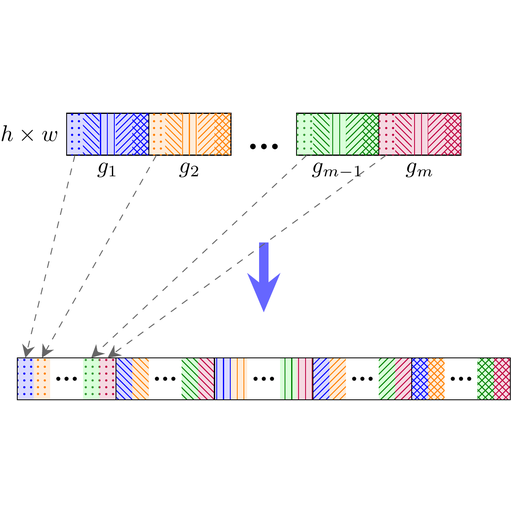
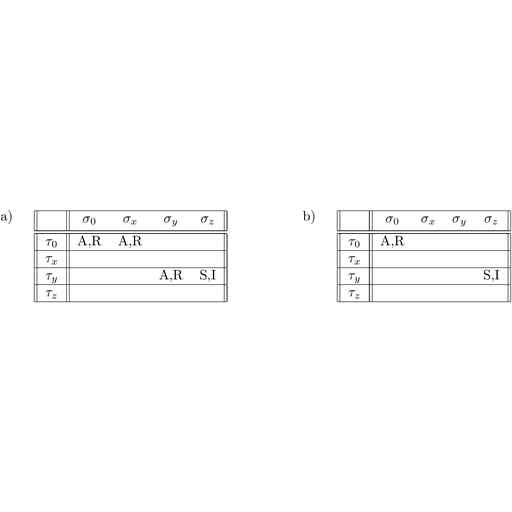
changes

diff --git a/data/5_export/helpers.py b/data/5_export/helpers.py
@@ -645,7 +645,7 @@ def choose_weighted_with_noise_fallback(
     return selected
 
 
-def choose_benchmark_with_noise_fallback(
+def choose_class_split_with_noise_fallback(
     samples: Iterable[Sample],
     class_names: Sequence[str],
     count_per_class: int,
@@ -654,14 +654,15 @@ def choose_benchmark_with_noise_fallback(
     rng: random.Random,
     valid_repetition_classes: Sequence[str],
     noise_class: str,
+    label: str,
 ) -> set[tuple[int, int]]:
     """
-    Select a fixed target for each benchmark class plus an explicit noise class.
+    Select a fixed target for each real class plus an explicit noise quota.
 
     Real samples are preferred and description-bearing real samples come first.
-    Missing slots of real benchmark classes are filled from the same random,
-    non-reused noise pool. ``noise_samples`` then adds an explicit additional
-    noise quota on top of those fallback rows.
+    Missing slots of real classes are filled from one random, non-reused noise
+    pool. ``noise_samples`` adds an explicit additional noise quota on top of
+    those fallback rows.
     """
     if count_per_class <= 0 and noise_samples <= 0:
         return set()
@@ -681,14 +682,14 @@ def choose_benchmark_with_noise_fallback(
             missing = count_per_class - len(chosen)
             total_missing += missing
             print(
-                f"Benchmark {class_name}: {len(chosen):,}/{count_per_class:,} "
+                f"{label} {class_name}: {len(chosen):,}/{count_per_class:,} "
                 f"real, noise fallback={missing:,}"
             )
 
     required_noise = total_missing + noise_samples
     if required_noise > len(noise):
         raise ValueError(
-            f"Benchmark needs {required_noise:,} noise samples "
+            f"{label} needs {required_noise:,} noise samples "
             f"({total_missing:,} fallback + {noise_samples:,} explicit) but only "
             f"{len(noise):,} eligible noise samples are available."
         )
@@ -698,11 +699,57 @@ def choose_benchmark_with_noise_fallback(
 
     if noise_samples > 0:
         print(
-            f"Benchmark {noise_class}: {noise_samples:,} explicit samples "
+            f"{label} {noise_class}: {noise_samples:,} explicit samples "
             f"(+ {total_missing:,} used as class fallback)"
         )
 
     return selected
+
+
+def choose_benchmark_with_noise_fallback(
+    samples: Iterable[Sample],
+    class_names: Sequence[str],
+    count_per_class: int,
+    noise_samples: int,
+    prefer_described: bool,
+    rng: random.Random,
+    valid_repetition_classes: Sequence[str],
+    noise_class: str,
+) -> set[tuple[int, int]]:
+    return choose_class_split_with_noise_fallback(
+        samples=samples,
+        class_names=class_names,
+        count_per_class=count_per_class,
+        noise_samples=noise_samples,
+        prefer_described=prefer_described,
+        rng=rng,
+        valid_repetition_classes=valid_repetition_classes,
+        noise_class=noise_class,
+        label="Benchmark",
+    )
+
+
+def choose_validation_with_noise_fallback(
+    samples: Iterable[Sample],
+    class_names: Sequence[str],
+    count_per_class: int,
+    noise_samples: int,
+    prefer_described: bool,
+    rng: random.Random,
+    valid_repetition_classes: Sequence[str],
+    noise_class: str,
+) -> set[tuple[int, int]]:
+    return choose_class_split_with_noise_fallback(
+        samples=samples,
+        class_names=class_names,
+        count_per_class=count_per_class,
+        noise_samples=noise_samples,
+        prefer_described=prefer_described,
+        rng=rng,
+        valid_repetition_classes=valid_repetition_classes,
+        noise_class=noise_class,
+        label="Validation",
+    )
 
 
 def without(

diff --git a/data/5_export/config.py b/data/5_export/config.py
@@ -26,6 +26,7 @@ class Config:
     benchmark_samples_per_class: int = 20
     benchmark_noise_samples: int = 0
     val_samples_per_class: int = 20
+    val_noise_samples: int = 0
     train_crystalbleu_size: int = 50_000
     train_size: int | None = None
     rl_train_size: int | None = None
@@ -58,13 +59,14 @@ class Config:
 
 
 CONFIG = Config(
-    input_dir=Path("/home/jonas/Datasets/TikZ/tikz-dataset-clean/data"),
-    output_dir=Path("/home/jonas/Datasets/TikZ/tikz-dataset-clean/sft-train"),
-    rl_output_dir=Path("/home/jonas/Datasets/TikZ/tikz-dataset-clean/rl-train"),
+    input_dir=Path("/home/jonas/Datasets/TikZ/tikz-dataset-clean-extended/data"),
+    output_dir=Path("/home/jonas/Datasets/TikZ/tikz-dataset-clean-extended/sft-train"),
+    rl_output_dir=Path("/home/jonas/Datasets/TikZ/tikz-dataset-clean-extended/rl-train"),
 
     benchmark_samples_per_class=5,
-    benchmark_noise_samples=50,
-    val_samples_per_class=10,
+    benchmark_noise_samples=130,
+    val_samples_per_class=5,
+    val_noise_samples=200,
     train_crystalbleu_size=50_000,
     train_size=200_000,
     rl_train_size=5000,
@@ -85,9 +87,9 @@ CONFIG = Config(
         "class_1": "a bit important",
         "class_2": "none",         # noted: possibly exclude
         "class_3": "none",
-        "class_4": "not important",      # annotation: definitions/theorems
+        "class_4": "none",      # annotation: definitions/theorems
         "class_5": "really important",
-        "class_6": "not important",
+        "class_6": "none",
         "class_7": "extremely important",
         "class_8": "not important",
         "class_9": "extremely important",
@@ -121,9 +123,7 @@ CONFIG = Config(
 
     benchmark_classes=[
         "class_1",
-        "class_4",
         "class_5",
-        "class_6",
         "class_7",
         "class_8",
         "class_9",

diff --git a/evaluation/promptfoo/config.py b/evaluation/promptfoo/config.py
@@ -7,12 +7,12 @@ ROOT = Path(__file__).resolve().parent
 
 @dataclass(frozen=True)
 class Paths:
-    data: Path = Path("/home/jonas/Datasets/TikZ/our_dataset_benchmark_merged/simple_llm_description")
+    data: Path = Path("/home/jonas/Datasets/TikZ/tikz-dataset-clean-extended/sft-train/benchmark")
     manifest: Path = data / "manifest.csv"
-    images: Path = data / "images"
-    input_images: Path = data / "images"
-    references: Path = data / "references"
-    crystalbleu_corpus: Path = Path("/home/jonas/Datasets/TikZ/our_dataset_benchmark_merged/crystalbleu_corpus")
+    images: Path = data / "reference_image"
+    input_images: Path = data / "input_image"
+    references: Path = data / "reference_code"
+    crystalbleu_corpus: Path = Path("/home/jonas/Datasets/TikZ/tikz-dataset-clean-extended/sft-train/benchmark/crystalbleu")
     results: Path = ROOT / "result"
     promptfoo_db: Path = results / "promptfoo-db"
     generated_images: Path = results / "generated_images"

diff --git a/data/5_export/export_train.py b/data/5_export/export_train.py
@@ -6,7 +6,7 @@ from collections import Counter
 from config import Config
 
 from helpers import (
-    choose_per_class,
+    choose_validation_with_noise_fallback,
     choose_uniform_with_noise_fallback,
     choose_weighted_with_noise_fallback,
     export_crystalbleu,
@@ -53,13 +53,15 @@ def run_train(config: Config) -> None:
         config.noise_class,
     )
 
-    val_keys = choose_per_class(
+    val_keys = choose_validation_with_noise_fallback(
         samples=samples,
         class_names=class_names,
-        count=config.val_samples_per_class,
+        count_per_class=config.val_samples_per_class,
+        noise_samples=config.val_noise_samples,
         prefer_described=True,
         rng=rng,
         valid_repetition_classes=config.valid_repetition_classes,
+        noise_class=config.noise_class,
     )
     after_val = without(samples, val_keys)
 

diff --git a/data/5_export/main_sft.py b/data/5_export/main_sft.py
@@ -24,6 +24,9 @@ def main() -> None:
     if CONFIG.val_samples_per_class < 0:
         raise ValueError("val_samples_per_class must be >= 0")
 
+    if CONFIG.val_noise_samples < 0:
+        raise ValueError("val_noise_samples must be >= 0")
+
     active_description_mix(CONFIG.train_description_mix)
     active_description_mix(CONFIG.benchmark_description_mix)
     valid_repetitions(CONFIG.valid_repetition_classes)

diff --git a/data/5_export/README.md b/data/5_export/README.md
@@ -121,7 +121,8 @@ CONFIG = Config(
 
     benchmark_samples_per_class=20,
     benchmark_noise_samples=50,
-    val_samples_per_class=0,
+    val_samples_per_class=10,
+    val_noise_samples=50,
     train_crystalbleu_size=0,
     train_size=5000,
 
@@ -231,3 +232,22 @@ dataset-exported/rl/
 `high` and `critical` are treated as one joint 75% pool; their internal ratio is
 not fixed. CrystalBLEU is selected after RL train from the full remaining train
 dataset and can use every repetition class.
+
+
+## Explicit validation noise class
+
+Validation now mirrors the benchmark sampling behavior for noise. Each active
+real train class targets `val_samples_per_class` rows. If a real class contains
+fewer eligible rows, its missing slots are filled with random, non-reused
+eligible `noise` rows. In addition, `val_noise_samples` adds a separate explicit
+noise quota for validation.
+
+```python
+val_samples_per_class = 10
+val_noise_samples = 50
+```
+
+The fallback noise rows are additional to the explicit `val_noise_samples`
+quota. Validation still uses `valid_repetition_classes`, prefers rows with a
+configured train description, and is removed from the pool before the weighted
+train selection. Train sampling itself is unchanged.
